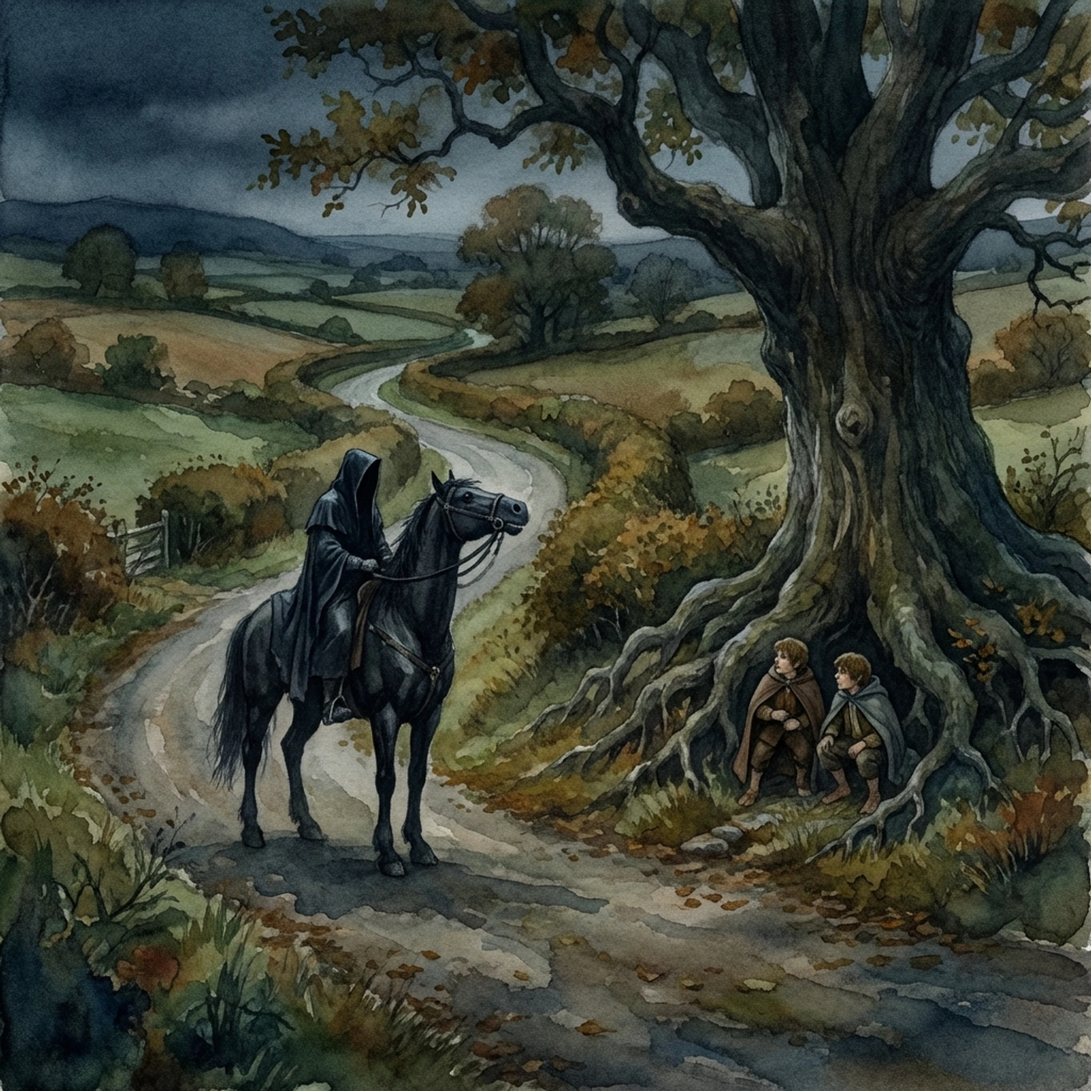
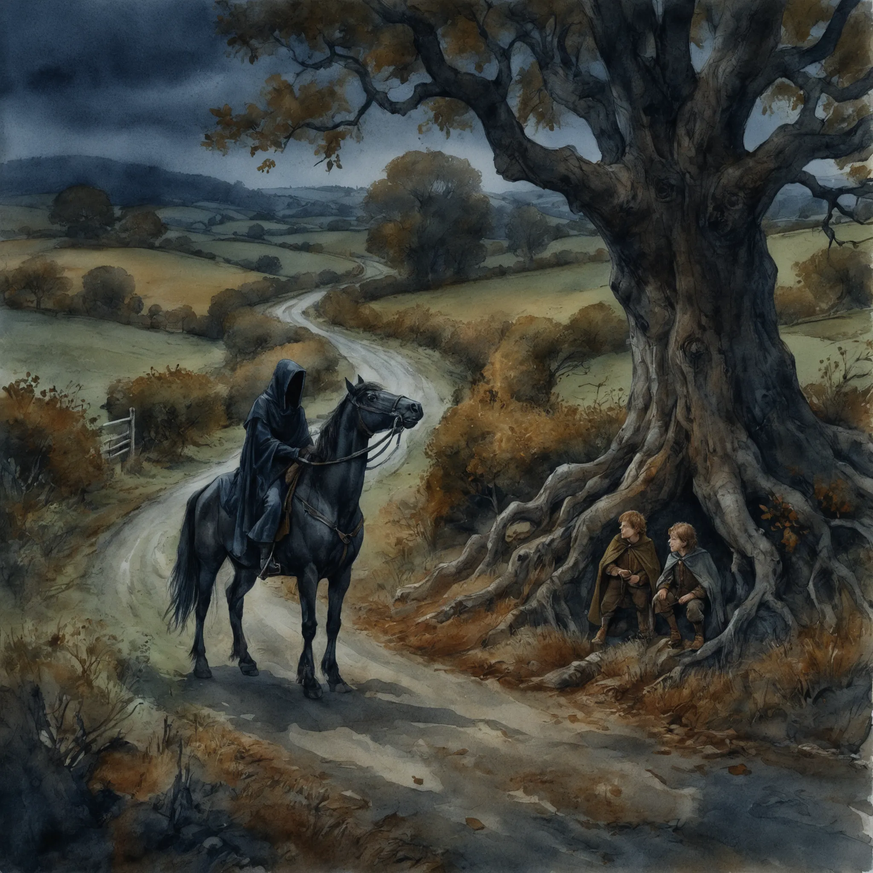
Add generated images for missing goal scenes
Updated the missing-goal-images-analysis.md to mark several images as 'tested-ok' and added new high-res and thumbnail images for 'barrow-wights-capture', 'buckleberry-ferry', 'encounter-black-rider', and 'weathertop-camp'. This provides visual assets for previously missing goal scenes.

diff --git a/_bmad-output/implementation-artifacts/missing-goal-images-analysis.md b/_bmad-output/implementation-artifacts/missing-goal-images-analysis.md
@@ -50,11 +50,11 @@ brandywine-bridge-tookland,meet-elves
 | ID | Distance (miles) | Title | Image ID | Missing status | Validated prompt | Done |
 |---:|---:|---|---|---|---|---|
 | 3 | 5 | Cross The Great Road from the Brandywine Bridge. Enter Tookland. (5 miles/8 km) | brandywine-bridge-tookland | missing-thumb | Watercolour painting, wet-on-wet technique, soft diffused edges, visible brushwork, atmospheric perspective, textured paper, in the style of Alan Lee and John Howe, low Shire countryside with gentle rolling farmland, cultivated fields, thick hedgerows and roadside banks, small trees and bushes, the wide pale Great Road running east–west with the Brandywine Bridge behind to the west, hedgerow-lined lanes and shadowed verges on the Tookland side, no buildings or ruins, night under clear moonlight with cool silver-blue glow, long shadows, growing dread and urgency, deep shadows with subtle ambient light and misty distance, three small hobbit figures stepping off the Great Road into the dark lane, cloaked silhouettes with packs, faces indistinct, High detail, museum quality, square format, no text, no watermarks, no borders | tested-ok |
-| 5 | 32 | Encounter with Black Rider | 5 | missing-both | Watercolour painting, wet-on-wet technique, soft diffused edges, visible brushwork, atmospheric perspective, textured paper, in the style of Alan Lee and John Howe, Shire East Road winding through gentle rolling countryside with hedges, banks, and farmland fields, an old oak tree beside the road dominating the scene, hedgerows and grass in muted autumn tones, late afternoon slipping toward twilight with cool clear air and lengthening shadows, a sudden dread in the still landscape with subtle ambient glow and deepening shade, small hobbit figures in simple cloaks hiding among the oak roots while a Black Rider on a dark horse halts on the road and lifts his head to sniff the air, High detail, museum quality, square format, no text, no watermarks, no borders |  |
+| 5 | 32 | Encounter with Black Rider | 5 | missing-both | Watercolour painting, wet-on-wet technique, soft diffused edges, visible brushwork, atmospheric perspective, textured paper, in the style of Alan Lee and John Howe, Shire East Road winding through gentle rolling countryside with hedges, banks, and farmland fields, an old oak tree beside the road dominating the scene, hedgerows and grass in muted autumn tones, late afternoon slipping toward twilight with cool clear air and lengthening shadows, a sudden dread in the still landscape with subtle ambient glow and deepening shade, small hobbit figures in simple cloaks hiding among the oak roots while a Black Rider on a dark horse halts on the road and lifts his head to sniff the air, High detail, museum quality, square format, no text, no watermarks, no borders | tested-ok |
 | 6 | 41 | Meet Elves | 6 | missing-both | Watercolour painting, wet-on-wet technique, soft diffused edges, visible brushwork, atmospheric perspective, textured paper, in the style of Alan Lee and John Howe, dense wooded country at Woody End above Woodhall with tall trees framing a starlit clearing beneath the canopy, soft ground cover and shadowed trunks, no rivers, no mountains, no buildings, night under a clear starry sky with a hush of elvish song, mood shifting from dread to wonder and relief, subtle ambient glow and deep shadows with cool starlight and a gentle elvish radiance on the clearing, small figures in the landscape: three hobbits with cloaks and packs standing or seated near the edge of the clearing, opposite a company of High Elves with slender silhouettes and light cloaks, shared white bread and fragrant wine suggested by pale shapes on the ground, High detail, museum quality, square format, no text, no watermarks, no borders | tested-ok |
-| 8 | 70 | Cross on the Buckleberry Ferry | 8 | missing-both | Watercolour painting, wet-on-wet technique, soft diffused edges, visible brushwork, atmospheric perspective, textured paper, in the style of Alan Lee and John Howe, the broad, dark, slow Brandywine River with the Buckleberry Ferry flat-boat and landing stages on both banks, Shire riverbank greenery and the Buckland countryside beyond, late-night mist rising from the water, cool damp air, urgency and dread, subtle ambient glow with deep shadows along the dark shoreline, small figures on the flat-boat pushing off—Frodo, Sam, Pippin, Merry and the ferryman—cloaked Black Rider arriving on the Shire-side landing as a distant silhouette, warm/cool contrast in the lights and mist, limited harmonious palette, High detail, museum quality, square format, no text, no watermarks, no borders |  |
-| 13 | 115 | The Hobbits are captured by Wights | 13 | missing-both | Watercolour painting, wet-on-wet technique, soft diffused edges, visible brushwork, atmospheric perspective, textured paper, in the style of Alan Lee and John Howe, the Barrow-downs as open treeless rolling grassy hills and hollows, short grass and sparse low vegetation, ancient earth-covered barrow mounds with stone chambers, a few standing stones on some heights, thick white fog swallowing the landscape and separating the forms, dread and confusion, time uncertain in the fog-drenched gloom, subtle cold ambient glow with deep shadows and faint warm glints on ancient gold ornaments, four small hobbit figures in the distance and half-lost in the mist, simple cloaks and hoods with no faces visible, secondary to the landscape, a dark barrow mound with a pale arm reaching toward a sword across a white-clad hobbit’s neck in the shadowed chamber entrance, High detail, museum quality, square format, no text, no watermarks, no borders |  |
-| 20 | 229 | Camp at the foot of the Weather Hills | 20 | missing-both | Watercolour painting, wet-on-wet technique, soft diffused edges, visible brushwork, atmospheric perspective, textured paper, in the style of Alan Lee and John Howe, open bleak uplands with wind-scoured slopes, shallow hollows and low banks, sparse short grass and low scrub; Weathertop (Amon Sûl) rising as the highest peak, its summit crowned by broken ring-walls and fallen stone ruins; a small camp tucked in a hollow at the hill-feet. Mounting dread and watchfulness, late afternoon into blue-grey dusk and nightfall, exposed cold wind, long shadows, darkening sky with a subtle ambient glow and deep shadows, misty distance desaturated. Small figures in the landscape: Frodo, Sam, Merry, Pippin, and Strider as cloaked silhouettes near the camp, faces indistinct, secondary to the landscape. High detail, museum quality, square format, no text, no watermarks, no borders |  |
+| 8 | 70 | Cross on the Buckleberry Ferry | 8 | missing-both | Watercolour painting, wet-on-wet technique, soft diffused edges, visible brushwork, atmospheric perspective, textured paper, in the style of Alan Lee and John Howe, the broad, dark, slow Brandywine River with the Buckleberry Ferry flat-boat and landing stages on both banks, Shire riverbank greenery and the Buckland countryside beyond, late-night mist rising from the water, cool damp air, urgency and dread, subtle ambient glow with deep shadows along the dark shoreline, small figures on the flat-boat pushing off—Frodo, Sam, Pippin, Merry and the ferryman—cloaked Black Rider arriving on the Shire-side landing as a distant silhouette, warm/cool contrast in the lights and mist, limited harmonious palette, High detail, museum quality, square format, no text, no watermarks, no borders | tested-ok |
+| 13 | 115 | The Hobbits are captured by Wights | 13 | missing-both | Watercolour painting, wet-on-wet technique, soft diffused edges, visible brushwork, atmospheric perspective, textured paper, in the style of Alan Lee and John Howe, the Barrow-downs as open treeless rolling grassy hills and hollows, short grass and sparse low vegetation, ancient earth-covered barrow mounds with stone chambers, a few standing stones on some heights, thick white fog swallowing the landscape and separating the forms, dread and confusion, time uncertain in the fog-drenched gloom, subtle cold ambient glow with deep shadows and faint warm glints on ancient gold ornaments, four small hobbit figures in the distance and half-lost in the mist, simple cloaks and hoods with no faces visible, secondary to the landscape, a dark barrow mound with a pale arm reaching toward a sword across a white-clad hobbit’s neck in the shadowed chamber entrance, High detail, museum quality, square format, no text, no watermarks, no borders | tested-ok |
+| 20 | 229 | Camp at the foot of the Weather Hills | 20 | missing-both | Watercolour painting, wet-on-wet technique, soft diffused edges, visible brushwork, atmospheric perspective, textured paper, in the style of Alan Lee and John Howe, open bleak uplands with wind-scoured slopes, shallow hollows and low banks, sparse short grass and low scrub; Weathertop (Amon Sûl) rising as the highest peak, its summit crowned by broken ring-walls and fallen stone ruins; a small camp tucked in a hollow at the hill-feet. Mounting dread and watchfulness, late afternoon into blue-grey dusk and nightfall, exposed cold wind, long shadows, darkening sky with a subtle ambient glow and deep shadows, misty distance desaturated. Small figures in the landscape: Frodo, Sam, Merry, Pippin, and Strider as cloaked silhouettes near the camp, faces indistinct, secondary to the landscape. High detail, museum quality, square format, no text, no watermarks, no borders | tested-ok |
 | 22 | 260 | Camp in thickets south of the Great East Road | 22 | missing-both | Watercolour painting, wet-on-wet technique, soft diffused edges, visible brushwork, atmospheric perspective, textured paper, in the style of Alan Lee and John Howe, pathless country south of the Great East Road with rolling heath, low hills and ridges, patches of scrub and tangled thickets, sparse trees, the road only hinted at nearby while a hidden camp nestles deep in the brush, no structures. Cool autumn air, subdued shadowed concealment, urgency and dread with exhaustion, overcast light filtering through, subtle ambient glow, deep shadows, mist-softened distance and desaturated background hills. Small figures crouched low in dense thickets: five cloaked travelers, one weak and leaning, another watchful scout standing apart, faces indistinct, no bright firelight. High detail, museum quality, square format, no text, no watermarks, no borders |  |
 | 23 | 271 | Camp | 23 | missing-both | Watercolour painting, wet-on-wet technique, soft diffused edges, visible brushwork, atmospheric perspective, textured paper, in the style of Alan Lee and John Howe, bleak broken country of low weather-worn hills and hollows, a cheerless hollow beneath stained hills with sparse scrub and coarse grass, no structures, a small low fire nestled in the hollow, night camp in cold damp mist clinging low, dread and weariness with urgency, dim firelight against grey mist and hill silhouettes, subtle ambient glow with deep shadows and desaturated distance, warm/cool contrast between firelight and chilling mist, tiny figures in the landscape: Frodo pale and slumped near the fire, Sam, Merry, and Pippin close by as cloaked silhouettes, Strider standing apart keeping watch facing east, High detail, museum quality, square format, no text, no watermarks, no borders |  |
 | 24 | 298 | Following a wide shallow curving valley | 24 | missing-both | Watercolour painting, wet-on-wet technique, soft diffused edges, visible brushwork, atmospheric perspective, textured paper, in the style of Alan Lee and John Howe, bleak Lone-lands with wide shallow valleys and broken hills, an open rolling country crossed by a faint forgotten track and earth-swallowed road remnants, ruins of Arnor with crumbled towers and broken walls on ridge lines silhouetted against the grey sky, sparse scrub, heather, and coarse grass with little tree cover, weariness and urgency under grey, chill, cheerless overcast light, lingering dread and misted distance with desaturated depth, warm/cool contrast in muted earth and slate tones, small figures in the landscape: a hunched rider on a pony, cloaked ranger scanning ahead, three hobbit silhouettes in travel-worn cloaks following close, High detail, museum quality, square format, no text, no watermarks, no borders |  |
